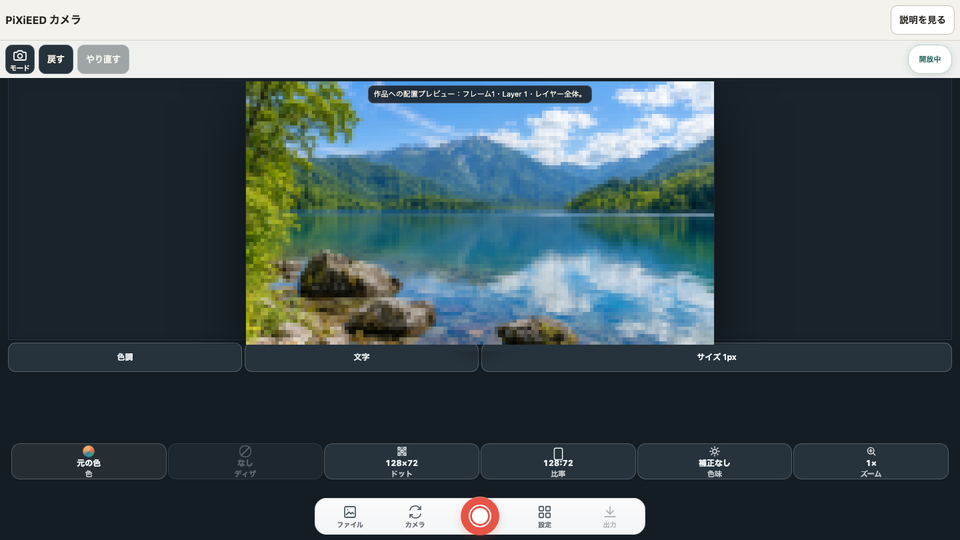
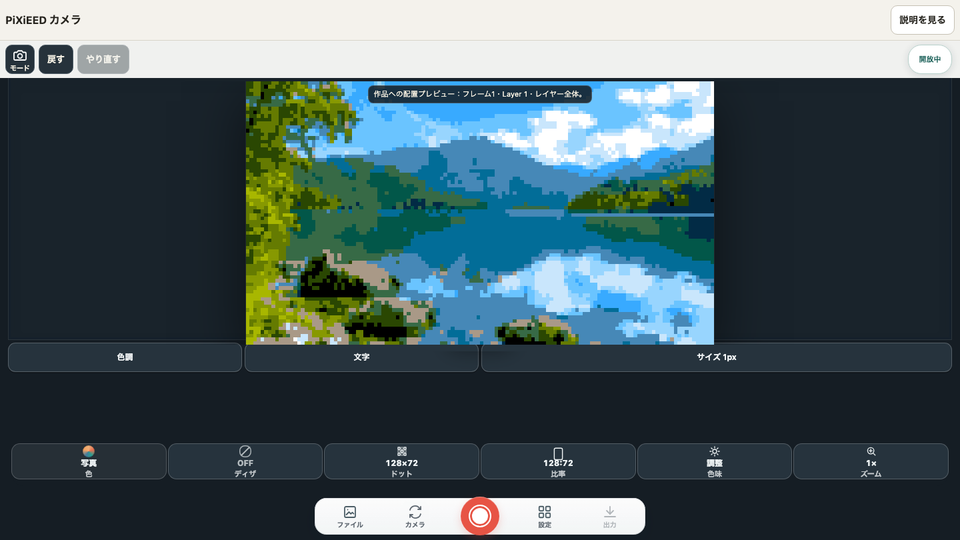
Use a 16-color camera preview without dithering

diff --git a/index.html b/index.html
@@ -48,7 +48,7 @@
             <div class="hp-card-copy"><h3 class="hp-tool-title">ドット絵を描く</h3><span class="hp-toy-line">アニメ・レイヤー制作</span><span class="hp-tool-brandline"><img src="/assets/icons/pixieed/artwork.svg" width="20" height="20" alt=""><small class="hp-tool-brand">PiXiEEDraw</small></span><span class="hp-card-link">ツール画面へ <span aria-hidden="true">→</span></span></div>
           </a>
           <a class="hp-toy hp-link-card hp-visual-tool-card" data-toy="camera" href="/camera/?workspace=1" data-static-tool="camera">
-            <span class="hp-tool-screen hp-tool-screen--camera"><picture><source type="image/webp" srcset="/assets/screenshots/previews/home-camera-empty-480.webp 480w, /assets/screenshots/previews/home-camera-empty-960.webp 960w" sizes="(min-width: 900px) 360px, 240px"><img src="/assets/screenshots/home-camera-empty.png" width="960" height="540" alt="写真調に生成した山と湖の風景をPiXiEELENSで元の色・ディザなしで128×72へドット変換したPC横画面全体" loading="eager"></picture></span>
+            <span class="hp-tool-screen hp-tool-screen--camera"><picture><source type="image/webp" srcset="/assets/screenshots/previews/home-camera-empty-480.webp?rev=20261019-photo16-preview-1 480w, /assets/screenshots/previews/home-camera-empty-960.webp?rev=20261019-photo16-preview-1 960w" sizes="(min-width: 900px) 360px, 240px"><img src="/assets/screenshots/home-camera-empty.png?rev=20261019-photo16-preview-1" width="960" height="540" alt="写真調に生成した山と湖の風景をPiXiEELENSで写真から選ぶ16色・ディザなしで128×72へドット変換したPC横画面全体" loading="eager"></picture></span>
             <div class="hp-card-copy"><h3 class="hp-tool-title">写真をドット絵に</h3><span class="hp-toy-line">画像をPNG保存</span><span class="hp-tool-brandline"><img src="/assets/icons/pixieed/camera.svg" width="20" height="20" alt=""><small class="hp-tool-brand">PiXiEELENS</small></span><span class="hp-card-link">ツール画面へ <span aria-hidden="true">→</span></span></div>
           </a>
           <a class="hp-toy hp-link-card hp-visual-tool-card" data-toy="sound" href="/audio/?workspace=1" data-static-tool="sound">
